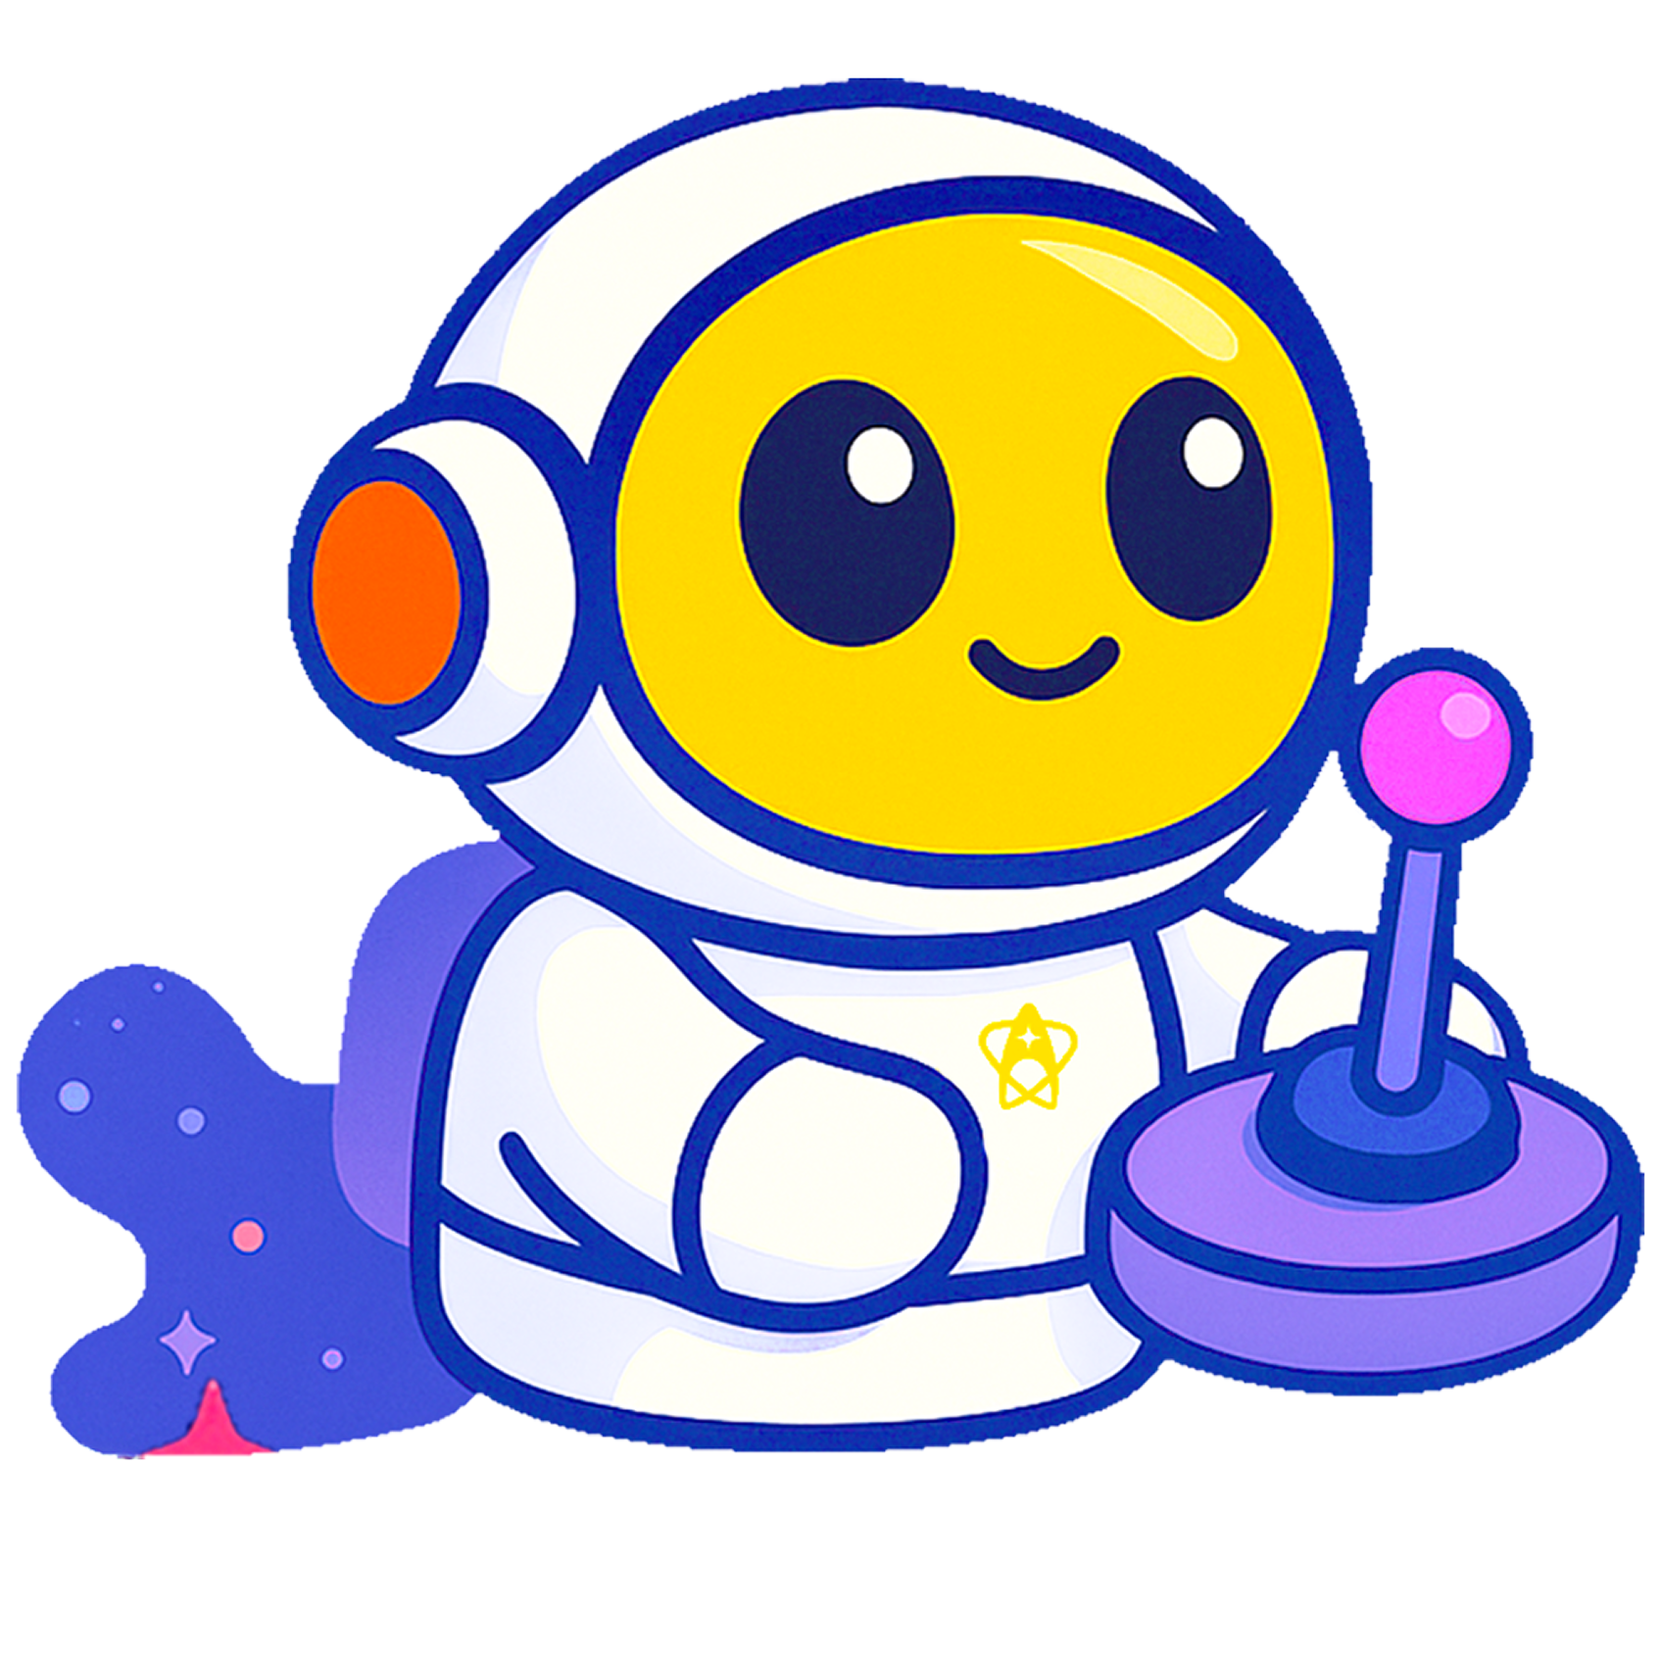
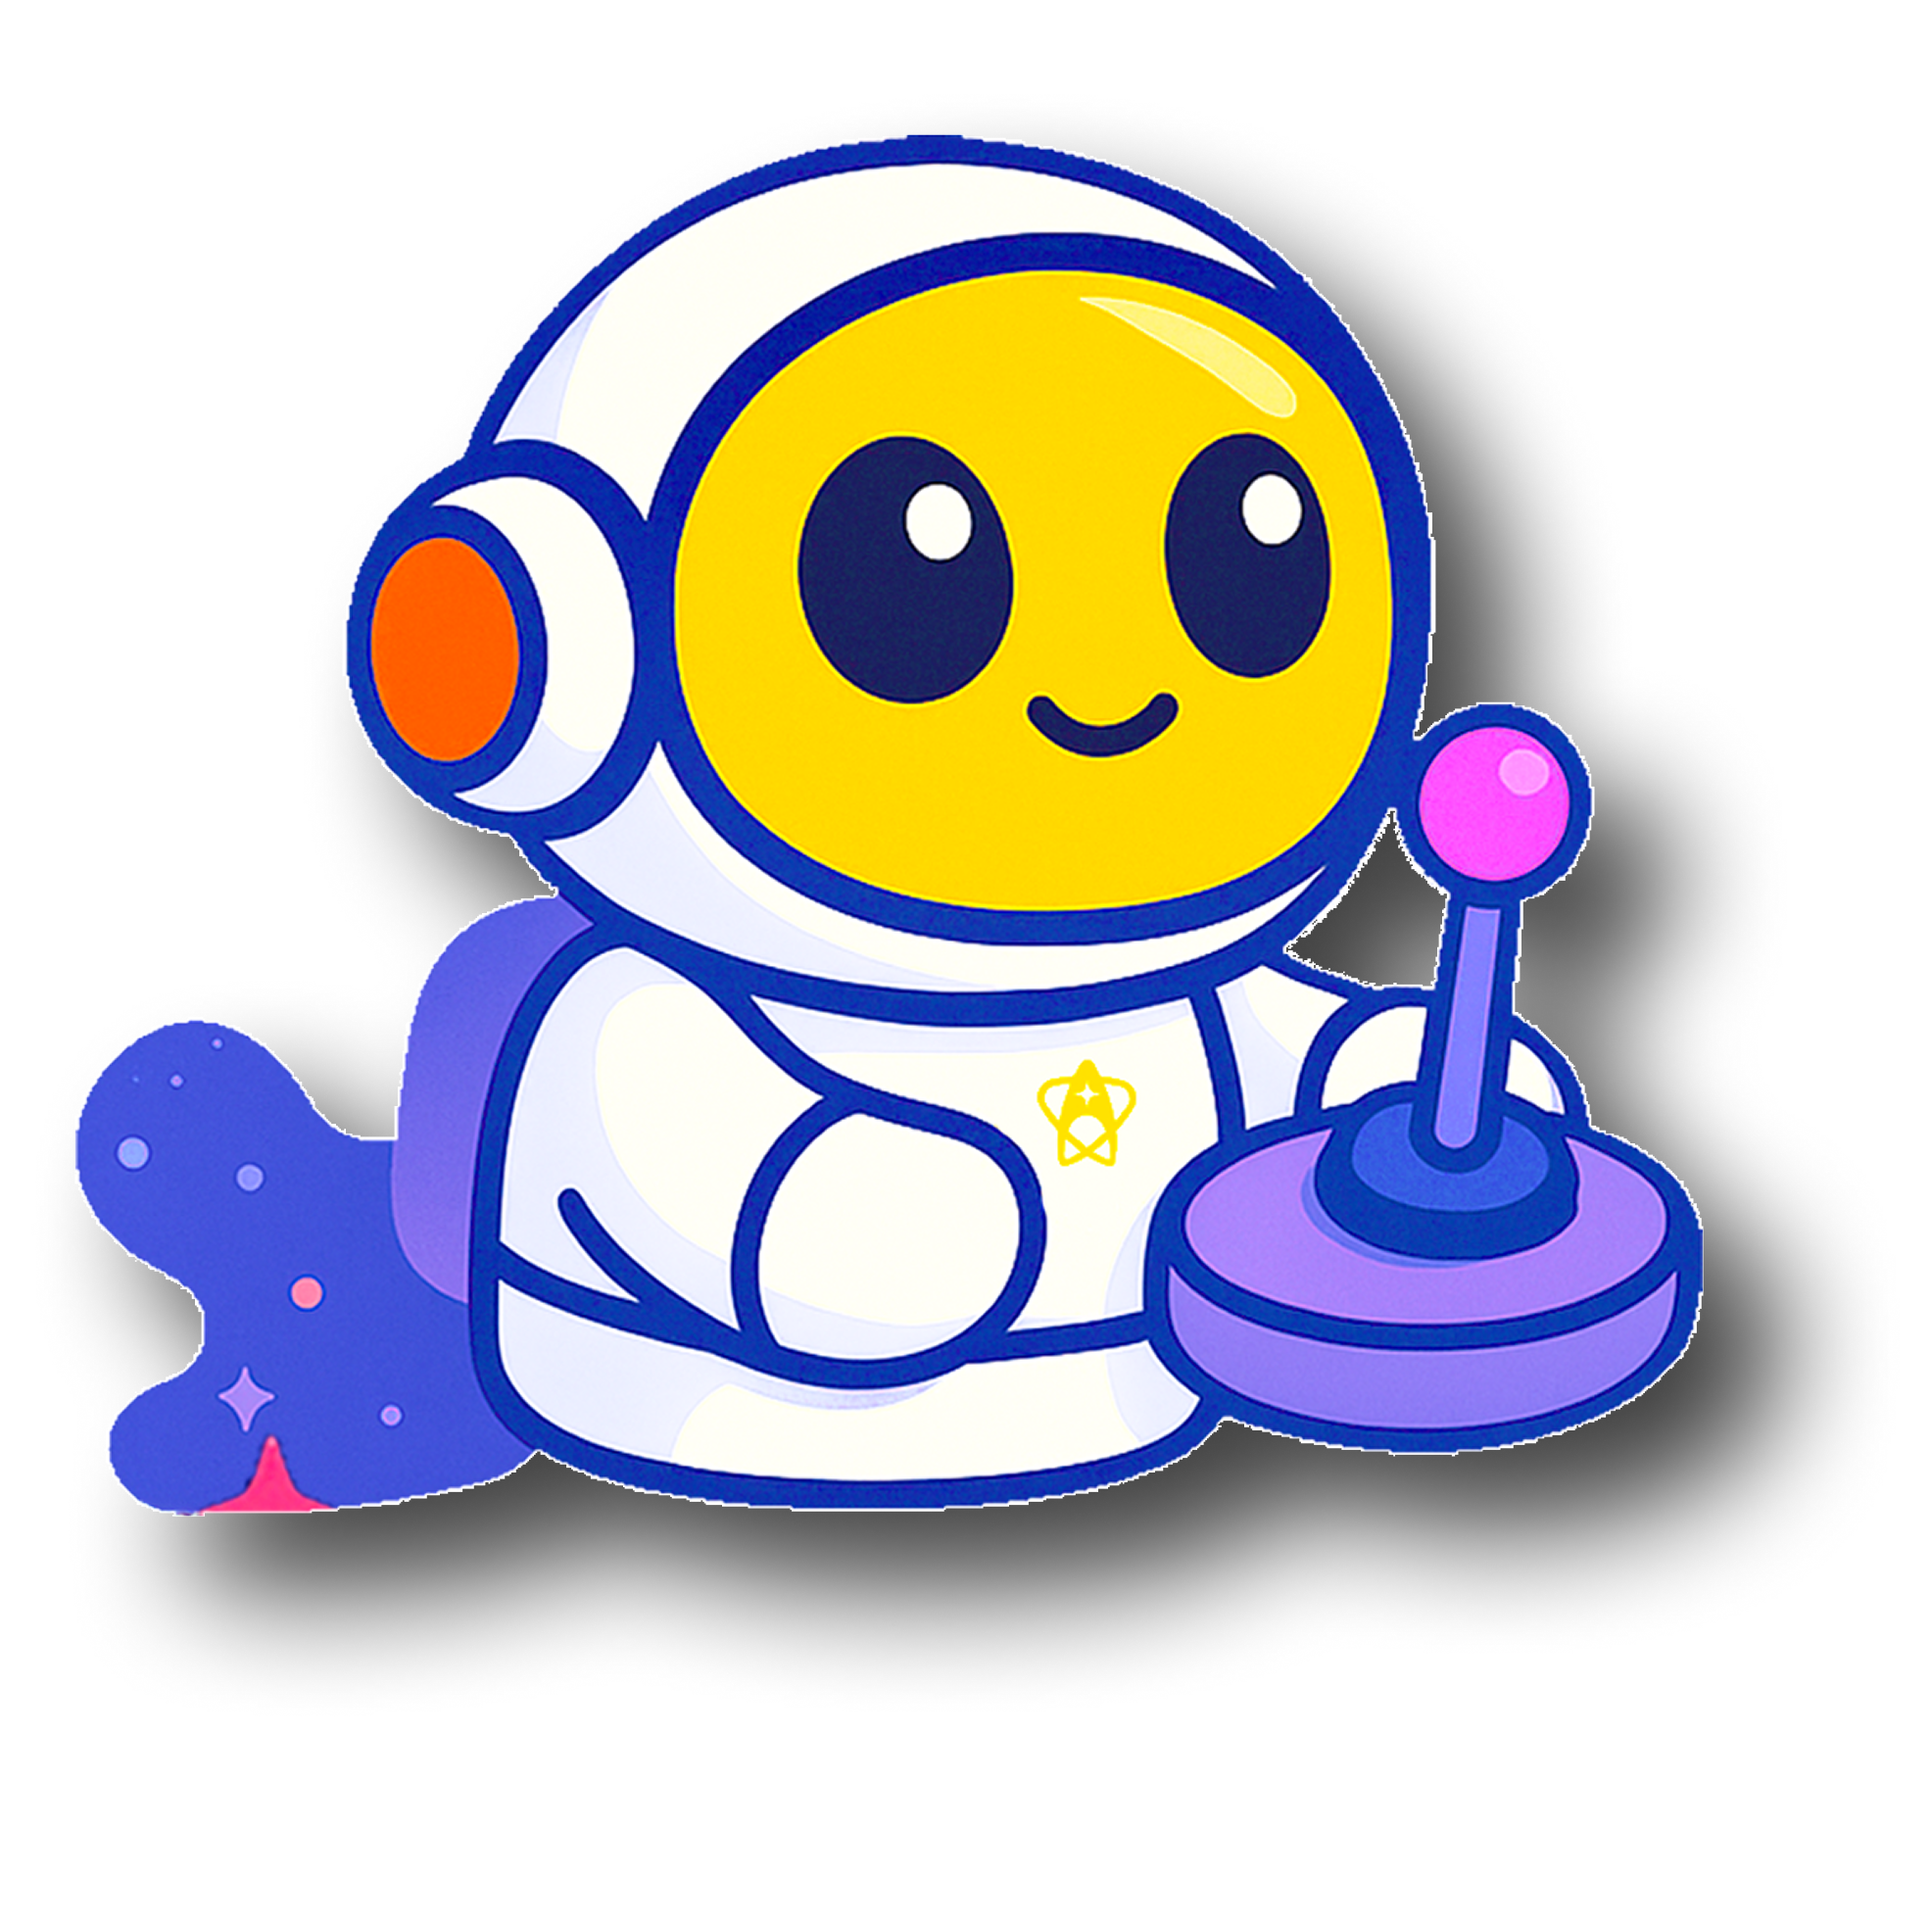
style: change and fix some on splash gate

diff --git a/lib/screens/splash_gate.dart b/lib/screens/splash_gate.dart
@@ -91,36 +91,75 @@ class _SplashGateState extends State<SplashGate> with TickerProviderStateMixin {
                   children: [
                     // 2) Title (mascot image layered above text logo)
                     Align(
-                      alignment: const Alignment(0, -0.45),
+                      alignment: const Alignment(0, -0.5),
                       child: SizedBox(
                         width: titleW,
                         height: titleH,
                         child: Stack(
                           clipBehavior: Clip.none,
                           children: [
-                            // Mascot image - BEHIND
+                            // Mascot image - BEHIND (with subtle pink glow)
                             Positioned(
                               top: titleH * -0.15,
                               left: titleW / 3.5,
                               child: SizedBox(
                                 width: titleW / 2.5,
                                 height: titleH,
-                                child: Image.asset(
-                                  'assets/brand/mascotnobg.png',
-                                  fit: BoxFit.contain,
+                                child: Container(
+                                  // transparent so image shows, but provide glow via shadow
+                                  decoration: BoxDecoration(
+                                    color: Colors.transparent,
+                                    boxShadow: [
+                                      BoxShadow(
+                                        color: Colors.pinkAccent.withOpacity(
+                                          0.2,
+                                        ),
+                                        blurRadius: 28,
+                                        spreadRadius: 6,
+                                        offset: Offset(0, 0),
+                                      ),
+                                    ],
+                                  ),
+                                  child: Image.asset(
+                                    'assets/brand/mascotnobg.png',
+                                    fit: BoxFit.contain,
+                                  ),
                                 ),
                               ),
                             ),
-                            // Logo text at mascot's feet - IN FRONT
+                            // Logo text at mascot's feet - IN FRONT (with shadow + pink glow)
                             Positioned(
                               bottom: 0,
                               left: 0,
                               right: 0,
                               child: SizedBox(
                                 height: titleH * 0.45,
-                                child: Image.asset(
-                                  'assets/brand/logo_crop.png',
-                                  fit: BoxFit.contain,
+                                child: Center(
+                                  child: Container(
+                                    // transparent color so shadow & glow are visible
+                                    decoration: BoxDecoration(
+                                      color: Colors.transparent,
+                                      boxShadow: [
+                                        BoxShadow(
+                                          color: Colors.black.withOpacity(0.45),
+                                          blurRadius: 12,
+                                          offset: Offset(0, 6),
+                                        ),
+                                        BoxShadow(
+                                          color: Colors.pinkAccent.withOpacity(
+                                            0.55,
+                                          ),
+                                          blurRadius: 20,
+                                          spreadRadius: 4,
+                                          offset: Offset(0, 0),
+                                        ),
+                                      ],
+                                    ),
+                                    child: Image.asset(
+                                      'assets/brand/logo_crop.png',
+                                      fit: BoxFit.contain,
+                                    ),
+                                  ),
                                 ),
                               ),
                             ),
